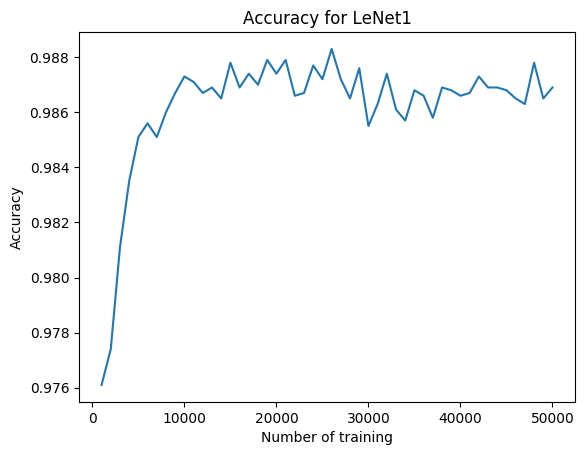
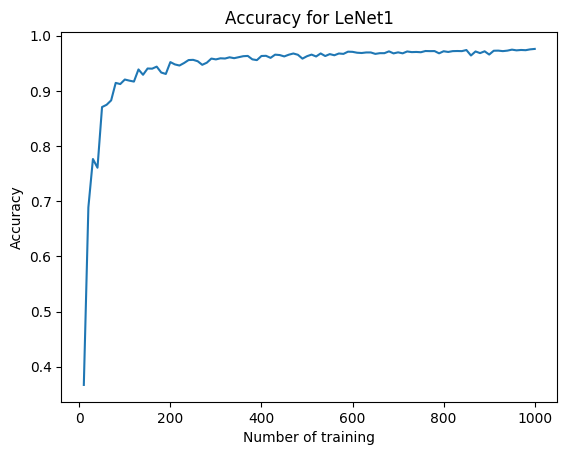
LeNet1 first 1000

diff --git a/LeNet1.py b/LeNet1.py
@@ -17,8 +17,8 @@ np.random.seed(123)
 num_filter1 = 4
 num_filter2 = 12
 learning_rate = 0.1
-num_training = 50000
-iter_accuracy = 1000
+num_training = 1000
+iter_accuracy = 10
 
 # Default parameters
 num_input = 784
